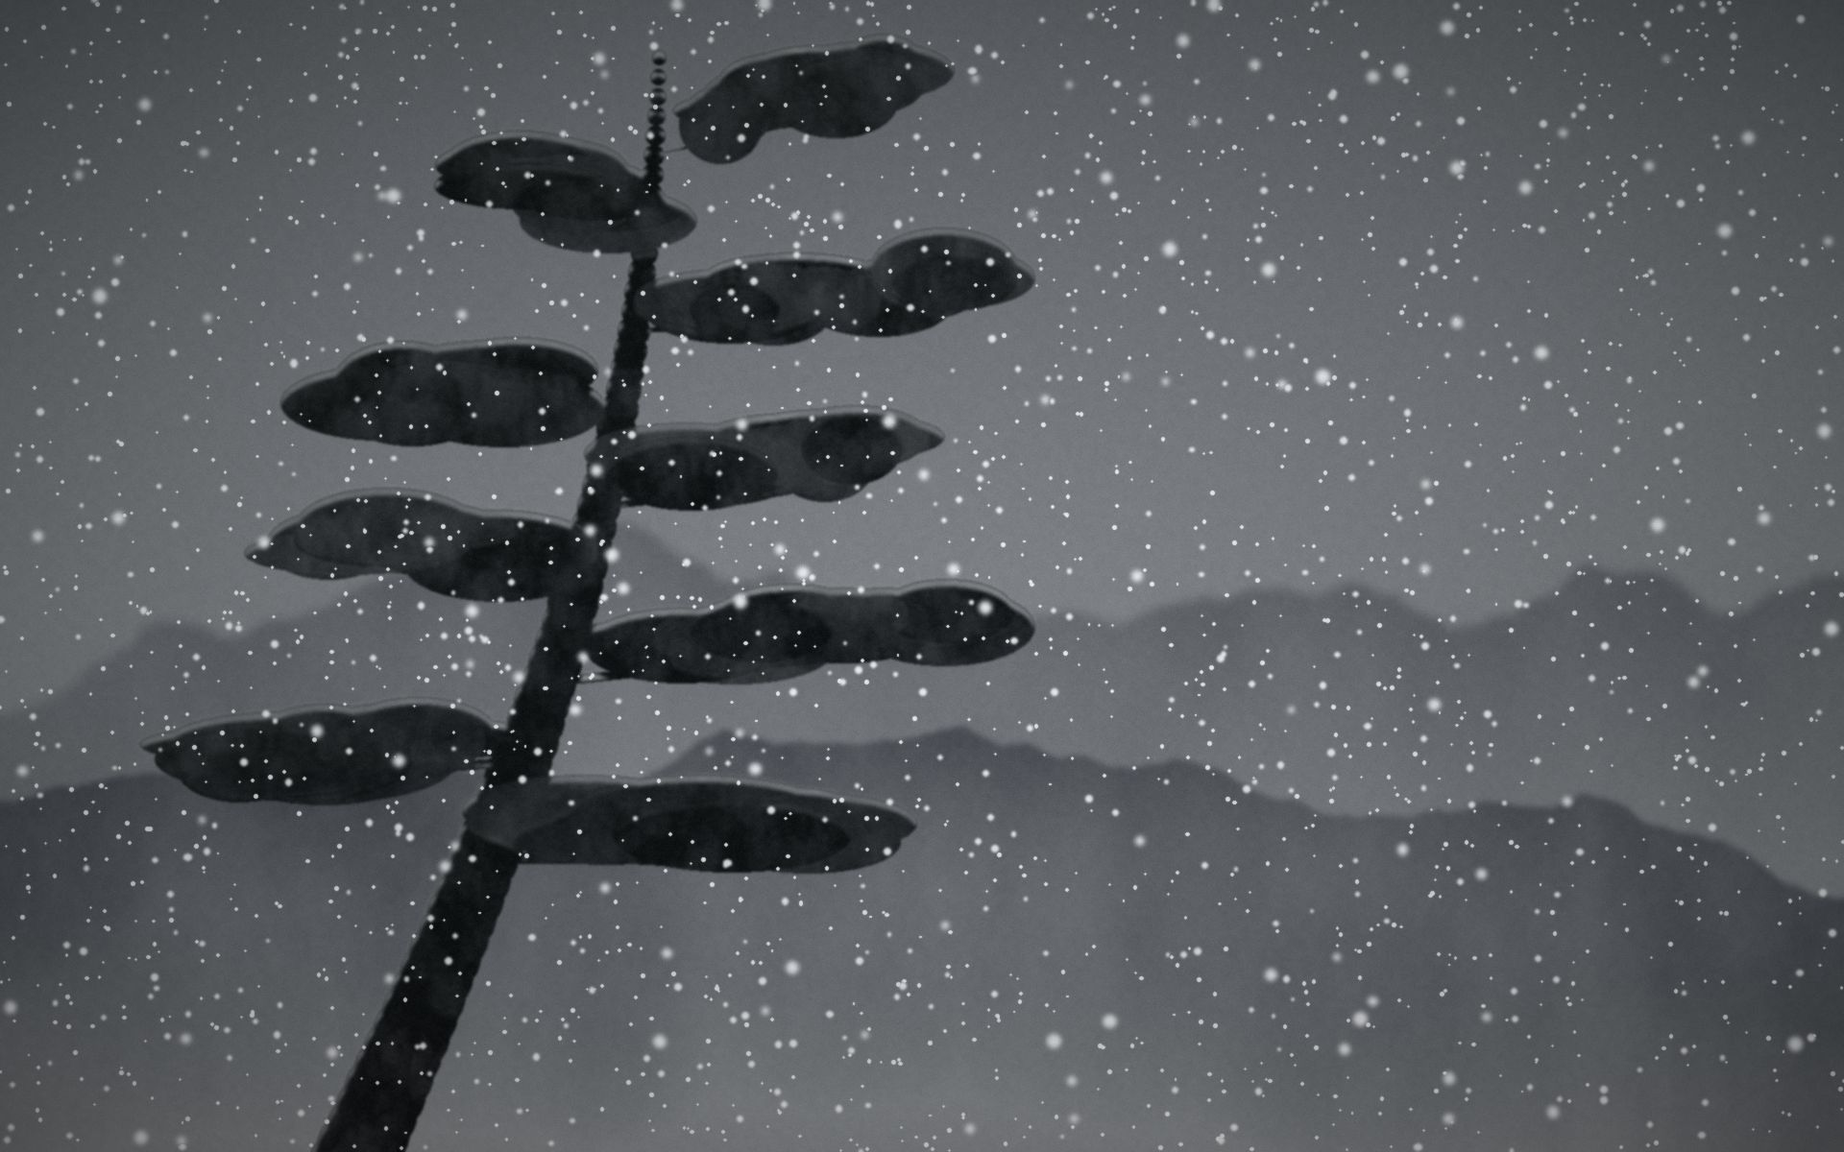
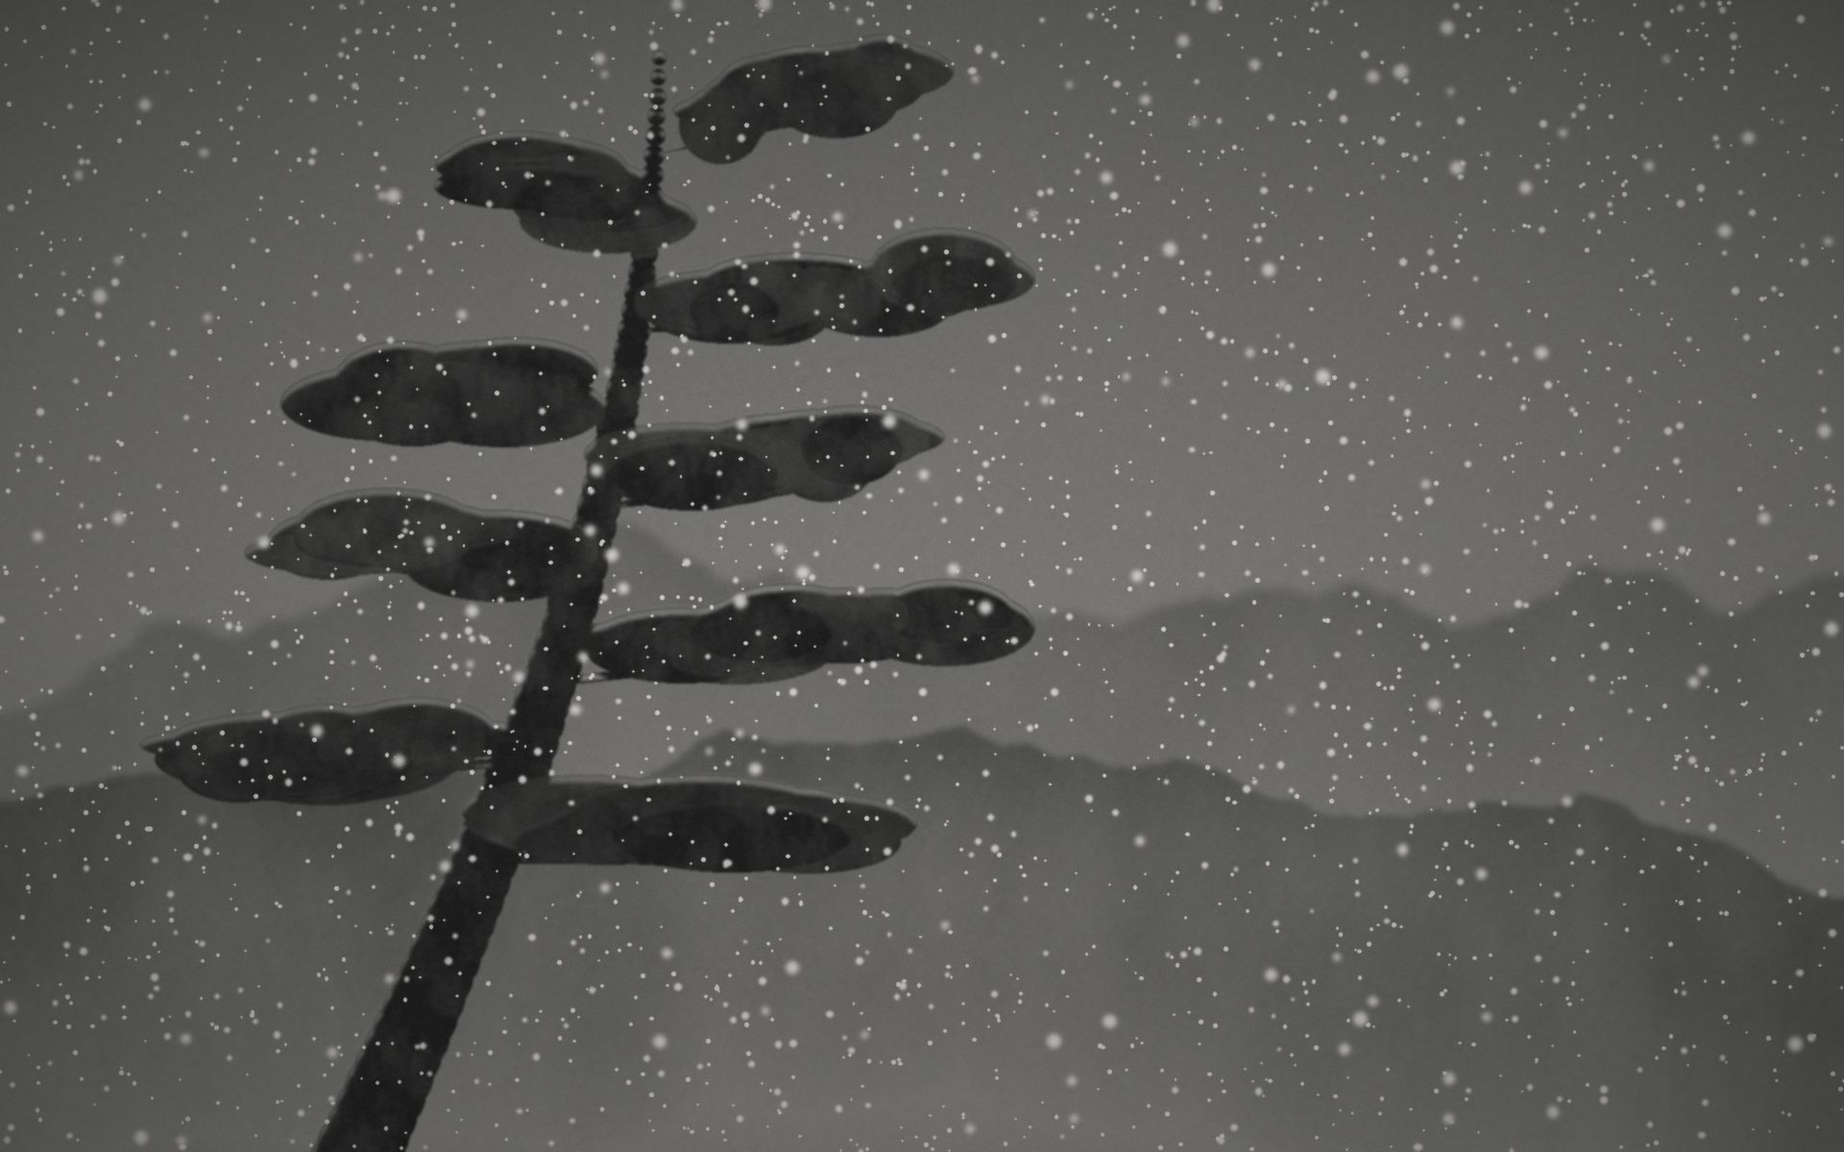
feat: 手描きスケッチの絵本の章を追加し、全体を白黒マットに統一
- スケッチ7枚から物語「はじまりの話」を構成し、紙の背景と墨色の手書き風書体で表示
- 線画は裏写りを除いて透過PNG化、キャラクター Sumi を登場させる
- 背景画像をすべて白黒・マット仕上げで再生成、絵本ページ用の紙を追加
- 紙のページではナビを墨色に切り替え

Claude-Session: https://claude.ai/code/session_012c7GD41eqUoAVCy7QVxncQ

Changed region(s): [[0.6875, 0.3083, 0.7188, 0.3392]]

diff --git a/sumi-phone/index.html b/sumi-phone/index.html
@@ -7,7 +7,7 @@
 <meta name="description" content="用事はこの一台で済ませて、あとはポケットへ。スマホから離れた時間が、温泉や本や山歩きに変わる、日本のためのデジタルデトックス・スマートフォン Sumi（仮称）。" />
 <link rel="preconnect" href="https://fonts.googleapis.com" />
 <link rel="preconnect" href="https://fonts.gstatic.com" crossorigin />
-<link href="https://fonts.googleapis.com/css2?family=Shippori+Mincho:wght@400;600&family=Zen+Kaku+Gothic+New:wght@300;400;500&display=swap" rel="stylesheet" />
+<link href="https://fonts.googleapis.com/css2?family=Klee+One:wght@400;600&family=Shippori+Mincho:wght@400;600&family=Zen+Kaku+Gothic+New:wght@300;400;500&display=swap" rel="stylesheet" />
 <link rel="stylesheet" href="styles.css" />
 </head>
 <body>
@@ -15,6 +15,7 @@
 <!-- 背景：スクロールに合わせて切り替わる -->
 <div class="bg" aria-hidden="true">
   <div class="bg-layer is-active" style="background-image:url(images/01-mountains.jpg)"></div>
+  <div class="bg-layer" style="background-image:url(images/10-paper.jpg)"></div>
   <div class="bg-layer" style="background-image:url(images/02-bamboo.jpg)"></div>
   <div class="bg-layer" style="background-image:url(images/03-lake.jpg)"></div>
   <div class="bg-layer" style="background-image:url(images/04-sea.jpg)"></div>
@@ -31,6 +32,7 @@
     <span class="logo-mark">墨</span><span class="logo-word">SUMI</span>
   </a>
   <nav class="nav-links">
+    <a href="#story">物語</a>
     <a href="#philosophy">思想</a>
     <a href="#home">ホーム</a>
     <a href="#points">ポイント</a>
@@ -43,6 +45,7 @@
 <!-- 右側のシーンインジケータ -->
 <ol class="scenes" aria-label="セクション">
   <li><a href="#top">山</a></li>
+  <li><a href="#story">話</a></li>
   <li><a href="#philosophy">竹</a></li>
   <li><a href="#home">湖</a></li>
   <li><a href="#one">海</a></li>
@@ -62,13 +65,70 @@
     <p class="lead reveal">用事はこの一台で済ませて、あとはポケットへ。<br />スマホから離れた時間が、温泉や本や山歩きに変わる。</p>
     <div class="reveal actions">
       <a class="btn" href="#signup">最新情報を受け取る</a>
-      <a class="btn ghost" href="#philosophy">もっと知る</a>
+      <a class="btn ghost" href="#story">はじまりの話</a>
     </div>
-    <a class="scroll-hint" href="#philosophy" aria-label="下へスクロール"><span></span></a>
+    <a class="scroll-hint" href="#story" aria-label="下へスクロール"><span></span></a>
   </section>
 
-  <!-- 1 竹 -->
-  <section id="philosophy" class="panel" data-bg="1">
+  <!-- 絵本：Sumi が生まれるまで（紙の背景・墨の文字） -->
+  <section id="story" class="panel story" data-bg="1" data-tone="paper">
+    <figure class="story-art reveal"><img src="images/story/01-indoors.png" alt="家の中で画面に向かう人。外の友達、木、魚にはばつ印がついている" width="1100" height="601" /></figure>
+    <div class="story-text reveal">
+      <p class="page-no">はじまりの話</p>
+      <p>いつしか消えた、<br />自分から外へ行く理由。</p>
+    </div>
+  </section>
+
+  <section class="panel story alt" data-bg="1" data-tone="paper">
+    <figure class="story-art reveal"><img src="images/story/02-feed.png" alt="ソファで寝そべる人から、画面が階段のように家の外まで果てしなく続いている" width="1100" height="733" /></figure>
+    <div class="story-text reveal">
+      <p>楽しくて、笑える SNS。</p>
+      <p>何も困らないじゃん。<br />毎日満たされるから、いいじゃん。<br />友達とオンラインで話せるし、最高じゃん。</p>
+      <p>……だよね？</p>
+    </div>
+  </section>
+
+  <section class="panel story" data-bg="1" data-tone="paper">
+    <figure class="story-art reveal"><img src="images/story/03-room.png" alt="ベッドで画面を見続ける人がいる、がらんとした部屋" width="1100" height="703" /></figure>
+    <div class="story-text reveal">
+      <p>家から出る必要なんてないし。<br />誰からも何も言われないし、<br />ずっと好きなことできるし。</p>
+      <p>嫌なことないし、楽だし。<br />俺なんかどうせ変われないし、<br />AI がなんでもできるから、<br />何も学ばなくていいし。</p>
+    </div>
+  </section>
+
+  <section class="panel story center" data-bg="1" data-tone="paper">
+    <div class="story-text reveal">
+      <p class="big-line">けど、本当は<br />何者かになりたい。</p>
+    </div>
+    <figure class="story-art reveal"><img src="images/story/04-noise.png" alt="ぐちゃぐちゃの線の真ん中に、小さな人がひとり立っている" width="1100" height="1086" /></figure>
+  </section>
+
+  <section class="panel story alt" data-bg="1" data-tone="paper">
+    <figure class="story-art reveal"><img src="images/story/05-burst.png" alt="真ん中の小さな画面から、矢印が四方八方へ伸びていく" width="1100" height="1005" /></figure>
+    <div class="story-text reveal">
+      <p>この現状を、<br />少しずつでいいから変えたい。</p>
+      <p>もっと時間を使って、<br />いろんなことを学んだり、<br />新しい体験がしたい。</p>
+    </div>
+  </section>
+
+  <section class="panel story center" data-bg="1" data-tone="paper">
+    <div class="story-text reveal">
+      <p>けど、どうせ俺には無理だな。<br />今までずっと逃げてきたし、<br />時間だって一生かかる。<br />保証なんてない。</p>
+      <p class="drawn-box">今まで通りで、いっか。</p>
+    </div>
+  </section>
+
+  <section class="panel story sumi-says" data-bg="1" data-tone="paper">
+    <figure class="story-art sumi-art reveal"><img src="images/story/06-sumi.png" alt="にっこり笑う、まるい頭のキャラクター、Sumi" width="520" height="593" /></figure>
+    <div class="story-text reveal">
+      <p class="big-line">「ちょっと待ってよ。」</p>
+      <p class="bubble">使わなければ使わないほど、ポイントが貯まって、好きなことに使えるスマホがあるんだよね。<br />SNS もゲームもないから、自分のために時間を使えるよ。</p>
+      <p class="signature">— Sumi</p>
+    </div>
+  </section>
+
+  <!-- 竹 -->
+  <section id="philosophy" class="panel" data-bg="2">
     <p class="eyebrow reveal">思想</p>
     <h2 class="reveal">我慢ではなく、<br />その先の楽しみを。</h2>
     <p class="body reveal">
@@ -83,7 +143,7 @@
   </section>
 
   <!-- 2 湖 -->
-  <section id="home" class="panel split" data-bg="2">
+  <section id="home" class="panel split" data-bg="3">
     <div class="split-text">
       <p class="eyebrow reveal">ホーム</p>
       <h2 class="reveal">アプリではなく、<br />用事が並ぶ。</h2>
@@ -110,7 +170,7 @@
   </section>
 
   <!-- 3 海 -->
-  <section id="one" class="panel" data-bg="3">
+  <section id="one" class="panel" data-bg="4">
     <p class="eyebrow reveal">一台で</p>
     <h2 class="reveal">外での暮らしは、<br />この一台で終わる。</h2>
     <p class="body reveal">
@@ -142,7 +202,7 @@
   </section>
 
   <!-- 4 庭 -->
-  <section id="points" class="panel" data-bg="4">
+  <section id="points" class="panel" data-bg="5">
     <p class="eyebrow reveal">ポイント</p>
     <h2 class="reveal">決めた時間に離れると、<br />ポイントが貯まる。</h2>
     <p class="body reveal">
@@ -158,7 +218,7 @@
   </section>
 
   <!-- 5 湯 -->
-  <section id="rewards" class="panel" data-bg="5">
+  <section id="rewards" class="panel" data-bg="6">
     <p class="eyebrow reveal">還元</p>
     <h2 class="reveal">貯めたポイントは、<br />湯けむりの向こうへ。</h2>
     <p class="body reveal">
@@ -172,7 +232,7 @@
   </section>
 
   <!-- 6 川 -->
-  <section id="shop" class="panel split" data-bg="6">
+  <section id="shop" class="panel split" data-bg="7">
     <div class="split-text">
       <p class="eyebrow reveal">ショップ</p>
       <h2 class="reveal">専門家が選んだ、<br />健やかなものだけ。</h2>
@@ -198,7 +258,7 @@
   </section>
 
   <!-- 7 松 -->
-  <section id="form" class="panel" data-bg="7">
+  <section id="form" class="panel" data-bg="8">
     <p class="eyebrow reveal">かたち</p>
     <h2 class="reveal">手のひらに、<br />静かに収まる。</h2>
     <div class="cols reveal">
@@ -219,7 +279,7 @@
   </section>
 
   <!-- 8 星 -->
-  <section id="signup" class="panel" data-bg="8">
+  <section id="signup" class="panel" data-bg="9">
     <p class="eyebrow reveal">開発中</p>
     <h2 class="reveal">夜空を、<br />もう一度見上げよう。</h2>
     <p class="body reveal">Sumi は現在開発中です。<br />試作の進み具合や、先行体験の案内をお届けします。</p>
@@ -234,6 +294,7 @@
 </main>
 
 <footer class="footer">
+  <img class="footer-sumi" src="images/story/06-sumi.png" alt="" width="520" height="593" />
   <div class="footer-logo"><span class="logo-mark">墨</span> Sumi（仮称）</div>
   <p>スマホから離れた時間で、日本の暮らしを豊かに。</p>
   <p class="small">© 2026 Sumi. 背景画像は本サイトのために描いた墨絵風の作品です。</p>

diff --git a/sumi-phone/styles.css b/sumi-phone/styles.css
@@ -4,6 +4,11 @@
   --white-dim: rgba(246, 244, 239, 0.72);
   --line: rgba(246, 244, 239, 0.28);
   --ink: #141414;
+  --paper-ink: #1f1e1c;
+  --paper-dim: rgba(31, 30, 28, 0.62);
+  --paper-line: rgba(31, 30, 28, 0.35);
+  --chrome: var(--white);
+  --hand: "Klee One", "Hiragino Maru Gothic ProN", "Yu Gothic", cursive;
   --serif: "Shippori Mincho", "Hiragino Mincho ProN", "Yu Mincho", serif;
   --sans: "Zen Kaku Gothic New", "Hiragino Sans", "Yu Gothic", system-ui, sans-serif;
   --fade: 1.4s;
@@ -39,35 +44,36 @@ button { font: inherit; color: inherit; background: none; border: 0; cursor: poi
 .bg-layer.flip { transform: scale(-1.08, 1.08); }
 .bg-layer.flip.is-active { transform: scale(-1, 1); }
 .bg-shade {
-  position: absolute; inset: 0;
+  position: absolute; inset: 0; transition: opacity var(--fade) ease;
   background:
     linear-gradient(180deg, rgba(0,0,0,.38) 0%, rgba(0,0,0,.12) 35%, rgba(0,0,0,.18) 65%, rgba(0,0,0,.5) 100%);
 }
 
 /* ---------- ナビ ---------- */
 .nav {
+  color: var(--chrome);
   position: fixed; top: 0; left: 0; right: 0; z-index: 10;
   display: flex; align-items: center; justify-content: space-between;
   padding: 22px clamp(16px, 4vw, 48px);
-  transition: background .4s, padding .4s;
+  transition: background .4s, padding .4s, color .6s;
 }
 .nav.is-scrolled { background: rgba(10,10,12,.35); backdrop-filter: blur(10px); padding-top: 14px; padding-bottom: 14px; }
 .logo { display: flex; align-items: center; gap: 10px; }
 .logo-mark {
   display: inline-grid; place-items: center;
-  width: 34px; height: 34px; border: 1px solid var(--white); border-radius: 50%;
+  width: 34px; height: 34px; border: 1px solid currentColor; border-radius: 50%;
   font-family: var(--serif); font-size: 17px;
 }
 .logo-word { font-family: var(--serif); letter-spacing: .35em; font-size: 15px; }
 .nav-links { display: flex; gap: clamp(14px, 2.4vw, 32px); font-size: 14px; align-items: center; }
 .nav-links a { opacity: .85; transition: opacity .2s; }
 .nav-links a:hover { opacity: 1; }
-.nav-cta { border: 1px solid var(--white); padding: 6px 16px; border-radius: 999px; opacity: 1 !important; }
+.nav-cta { border: 1px solid currentColor; padding: 6px 16px; border-radius: 999px; opacity: 1 !important; }
 
 /* ---------- シーンインジケータ ---------- */
 .scenes {
   position: fixed; right: clamp(12px, 2.5vw, 32px); top: 50%; transform: translateY(-50%);
-  z-index: 9; list-style: none; display: flex; flex-direction: column; gap: 14px;
+  z-index: 9; list-style: none; color: var(--chrome); transition: color .6s; display: flex; flex-direction: column; gap: 14px;
 }
 .scenes a {
   display: block; font-family: var(--serif); font-size: 12px; width: 26px; text-align: center;
@@ -112,6 +118,37 @@ br.pc { display: inline; }
   animation: drip 2.4s ease-in-out infinite;
 }
 @keyframes drip { 0% { top: -64px; } 60%, 100% { top: 64px; } }
+
+/* ---------- 絵本（紙のページ） ---------- */
+body.paper { --chrome: var(--paper-ink); }
+body.paper .bg-shade { opacity: 0; }
+body.paper .nav.is-scrolled { background: rgba(236, 235, 230, .7); }
+.story {
+  color: var(--paper-ink); text-shadow: none;
+  display: grid; grid-template-columns: minmax(0, 1.15fr) minmax(0, 1fr);
+  align-items: center; gap: clamp(28px, 6vw, 96px);
+}
+.story.alt .story-art { order: 2; }
+.story.center { grid-template-columns: minmax(0, 1fr); justify-items: center; text-align: center; }
+.story.center .story-art { max-width: 560px; }
+.story-art img { width: 100%; height: auto; display: block; }
+.story-text { font-family: var(--hand); font-weight: 400; font-size: clamp(19px, 2.3vw, 30px); line-height: 2.1; letter-spacing: .06em; display: flex; flex-direction: column; gap: 1.1em; min-width: 0; }
+.page-no { font-family: var(--sans); font-size: 12px; letter-spacing: .4em; color: var(--paper-dim); }
+.big-line { font-size: clamp(30px, 4.4vw, 52px); line-height: 1.6; font-weight: 600; text-wrap: balance; }
+.drawn-box {
+  align-self: center; margin-top: .6em; padding: .5em 1.4em;
+  border: 2px solid var(--paper-ink);
+  border-radius: 255px 18px 225px 18px / 18px 225px 18px 255px;
+}
+.sumi-says { grid-template-columns: minmax(0, .7fr) minmax(0, 1.3fr); }
+.sumi-art { max-width: 320px; justify-self: center; }
+.bubble {
+  position: relative; padding: 1.1em 1.4em; max-width: 30em;
+  border: 2px solid var(--paper-ink); font-size: clamp(17px, 1.8vw, 22px); line-height: 2;
+  border-radius: 30px 255px 40px 225px / 225px 40px 255px 30px;
+}
+.signature { font-size: 15px; color: var(--paper-dim); }
+.footer-sumi { width: 64px; height: auto; filter: invert(1) brightness(.92); opacity: .85; margin-bottom: 18px; }
 
 /* ---------- 道具 ---------- */
 .split { flex-direction: row; align-items: center; gap: clamp(32px, 6vw, 100px); }
@@ -228,6 +265,9 @@ br.pc { display: inline; }
   .split-device { align-self: center; }
   .specs { grid-template-columns: repeat(2, minmax(0, 1fr)); }
   .cols, .lists, .rules { grid-template-columns: 1fr; }
+  .story, .sumi-says { grid-template-columns: minmax(0, 1fr); gap: 28px; }
+  .story.alt .story-art { order: 0; }
+  .sumi-art { max-width: 200px; }
   .item-card { flex-basis: auto; width: 100%; }
   br.pc { display: none; }
   .panel { padding-top: 100px; padding-bottom: 100px; }

diff --git a/sumi-phone/script.js b/sumi-phone/script.js
@@ -15,11 +15,13 @@
 
   function onScroll() {
     const mid = window.innerHeight / 2;
-    let idx = 0;
+    let active = panels[0];
     panels.forEach((p) => {
-      if (p.getBoundingClientRect().top <= mid) idx = Number(p.dataset.bg);
+      if (p.getBoundingClientRect().top <= mid) active = p;
     });
-    setScene(idx);
+    setScene(Number(active.dataset.bg));
+    // 絵本のページ（紙）では、ナビの文字を墨色にする
+    document.body.classList.toggle("paper", active.dataset.tone === "paper");
     nav.classList.toggle("is-scrolled", window.scrollY > 40);
   }
   window.addEventListener("scroll", onScroll, { passive: true });

diff --git a/sumi-phone/tools/clean_sketches.py b/sumi-phone/tools/clean_sketches.py
@@ -1,0 +1,33 @@
+"""Crop the hand-drawn story sketches and turn them into clean ink-on-transparent PNGs."""
+import sys, numpy as np
+import pillow_heif
+from PIL import Image, ImageOps, ImageFilter, ImageDraw
+pillow_heif.register_heif_opener()
+UP = '/root/.claude/uploads/9a16e9a2-6544-5608-b3b5-b96a464ae683/'
+OUT = sys.argv[1]
+S = 4284 / 1050  # crop boxes below are in 1050px-wide preview coordinates
+JOBS = [  # name, file, crop box, erase boxes (handwritten captions)
+    ('01-indoors', '7f5171eb-IMG_9573', (150, 830, 900, 1240), []),
+    ('02-feed', '1cff70ff-IMG_9574', (160, 55, 1015, 625), [(195, 75, 660, 170)]),
+    ('03-room', '574f29d2-IMG_9575', (195, 300, 805, 690), [(150, 230, 640, 352)]),
+    ('04-noise', '9ae98d82-IMG_9576', (180, 240, 1010, 1060), []),
+    ('05-burst', '4e96d850-IMG_9577', (35, 405, 965, 1255), []),
+    ('06-sumi', '5cf5ad44-IMG_9578', (712, 880, 898, 1112), []),
+]
+for name, f, box, erase in JOBS:
+    im = ImageOps.exif_transpose(Image.open(UP + f + '.HEIC')).convert('L')
+    d = ImageDraw.Draw(im)
+    for e in erase:
+        d.rectangle([int(v * S) for v in e], fill=255)
+    im = im.crop([int(v * S) for v in box])
+    g = np.asarray(im, np.float32) / 255
+    paper = np.asarray(im.filter(ImageFilter.GaussianBlur(60)), np.float32) / 255  # uneven lighting
+    rel = np.clip(g / np.maximum(paper, 0.2), 0, 1.2)
+    ink = np.clip((0.80 - rel) / 0.32, 0, 1) ** 0.9   # faint show-through drops out
+    a = Image.fromarray((ink * 255).astype(np.uint8))
+    a = a.filter(ImageFilter.MedianFilter(3))
+    w = 1100 if name != '06-sumi' else 520
+    a = a.resize((w, int(a.height * w / a.width)), Image.LANCZOS)
+    rgba = Image.new('RGBA', a.size, (30, 29, 27, 0)); rgba.putalpha(a)
+    rgba.save(f'{OUT}/{name}.png', optimize=True)
+    print(name, a.size)

diff --git a/sumi-phone/tools/gen_backgrounds.py b/sumi-phone/tools/gen_backgrounds.py
@@ -71,7 +71,15 @@ def vignette(img, k=0.45):
     d = ((XX / W - 0.5) ** 2 + (YY / H - 0.5) ** 2) ** 0.5
     return img * (1 - k * np.clip(d * 1.4, 0, 1) ** 2)[..., None]
 
-def save(img, name):
+def matte_mono(img):
+    """白黒・マット仕上げ：色を抜き、黒を少し持ち上げてハイライトを抑える。"""
+    y = img[..., 0] * 0.299 + img[..., 1] * 0.587 + img[..., 2] * 0.114
+    y = 16 + np.clip(y, 0, 255) * (222 - 16) / 255
+    return np.repeat(y[..., None], 3, 2) * np.array([1.0, 0.995, 0.985])
+
+def save(img, name, mono=True):
+    if mono:
+        img = matte_mono(img)
     Image.fromarray(np.clip(img, 0, 255).astype(np.uint8)).save(
         f"{OUT}/{name}.jpg", quality=80, optimize=True, progressive=True)
     print("saved", name)
@@ -345,6 +353,18 @@ def river():
     img = paint(img, mist(109, 0.55, (top + 20, 70)), (150, 158, 156))
     img = img * 0.7
     return vignette(paper(img, 9, 6), 0.55)
+
+# 10. 紙 — matte picture-book paper for the story pages
+def paper_page():
+    img = np.full((H, W, 3), 234, np.float32) * np.array([1.0, 0.996, 0.985])
+    img = paper(img, 10, 12)
+    fib = noise2d(111, scales=(300, 700), aspect=(0.3, 1), gain=0.6)
+    img += (fib - 0.5)[..., None] * 6
+    return vignette(img, 0.12)
+
+for name, fn in [("10-paper", paper_page)]:
+    if len(sys.argv) > 2 and name not in sys.argv[2:]: continue
+    save(fn(), name, mono=False)
 
 for name, fn in [("08-onsen", onsen), ("09-river", river)]:
     if len(sys.argv) > 2 and name not in sys.argv[2:]: continue

diff --git a/sumi-phone/README.md b/sumi-phone/README.md
@@ -2,6 +2,8 @@
 
 墨絵の世界観でつくった、デジタルデトックス・スマートフォン「Sumi（仮称）」のランディングページ。
 
+- トップの直後に、手描きスケッチから起こした絵本の章「はじまりの話」（紙の背景・墨の文字）
+- 全体を白黒のマットな質感に統一（カメラの写真だけカラー）
 - スクロールすると背景が 山 → 竹林 → 湖 → 海 → 枯山水 → 温泉 → 渓流 → 雪松 → 星空 と切り替わる
 - 背景の上に白くシンプルな文字
 - 「ホーム」セクションでは、用事のボタンを押すと端末の画面が切り替わる（写真だけカラー表示）
@@ -9,5 +11,7 @@
 `index.html` をブラウザで直接開くだけで動きます。
 
 背景画像（`images/`）は、このサイトのために numpy でプログラム生成した墨絵風の画像です（外部素材は使っていません）。
+
+スケッチを切り出し直すとき: `python3 tools/clean_sketches.py images/story`（pillow-heif が必要です。元の HEIC の場所はスクリプト内で指定）
 
 背景を作り直すとき: `python3 tools/gen_backgrounds.py images`（numpy と Pillow が必要です）
